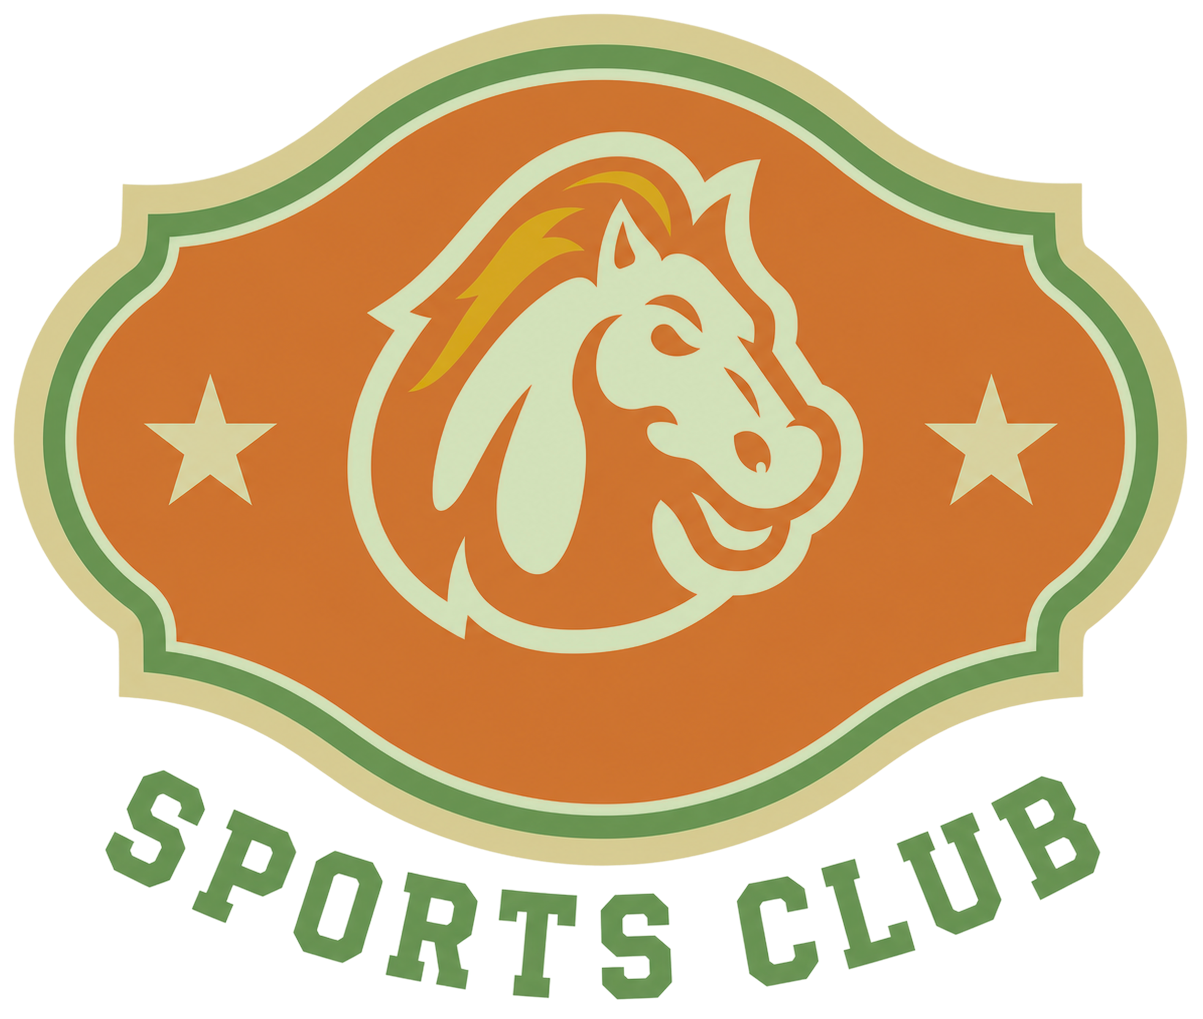
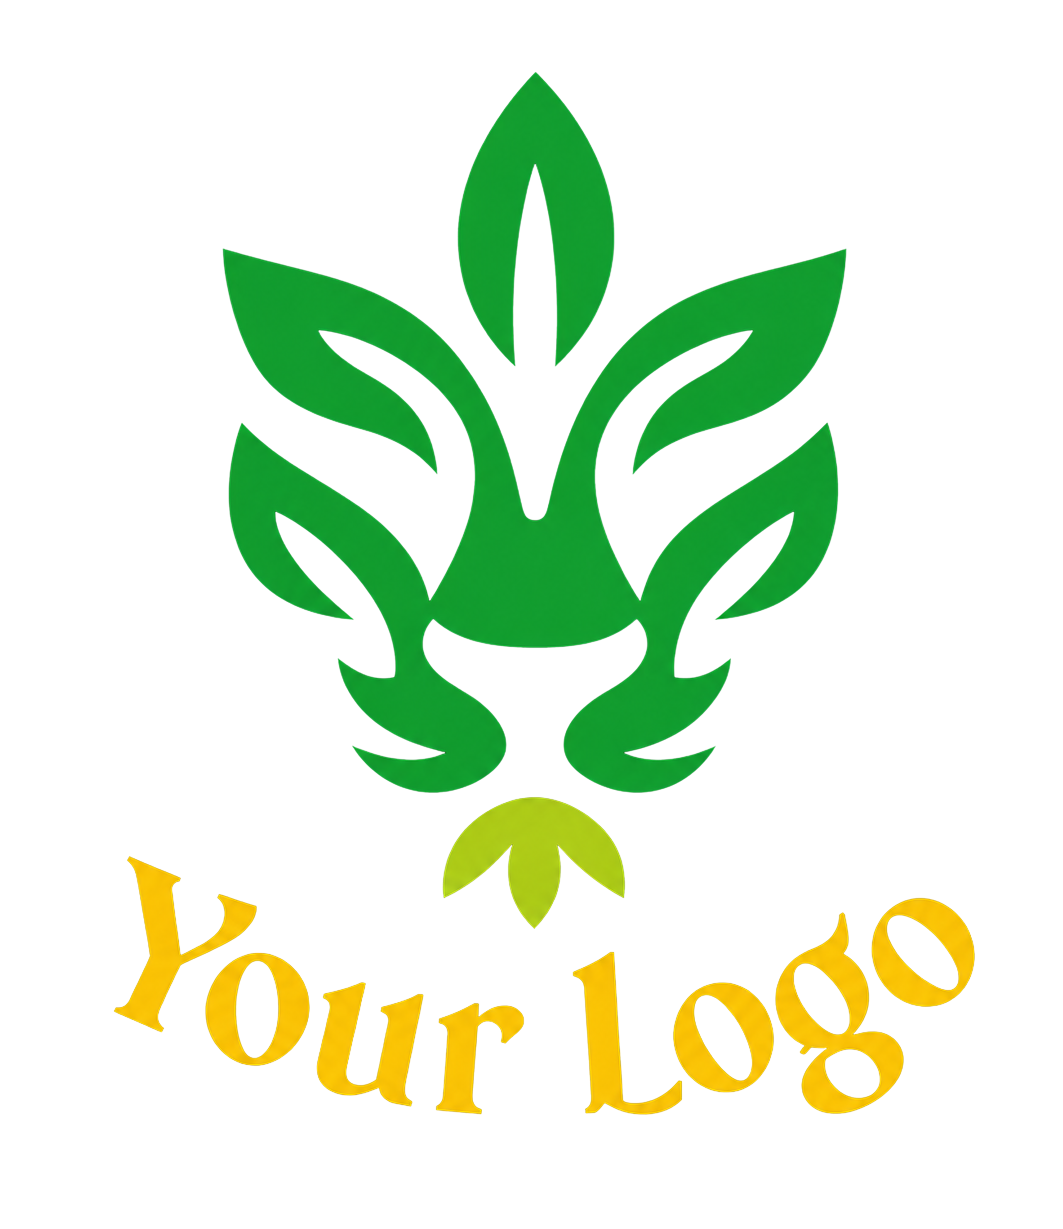
emb-landing: new before/after images, taller hero gradient, designer tile/color unification
- Replace before/after slider images with transparent-bg versions, fix aspect ratio
- Widen slider intro animation travel to ~48px each direction
- Increase hero gradient overlay height
- Unify product tiles/coloring/order across designer modal and select drawer
- Sync drawer preview colour to canvas via appearanceId; embroidery default print technique; model-picture rectangle

diff --git a/app/emb-landing/page.tsx b/app/emb-landing/page.tsx
@@ -2,70 +2,9 @@ import BeforeAfterCompare from "@/components/before-after-compare"
 import EmbLandingHeader from "@/components/emb-landing-header"
 import GradientButton from "@/components/gradient-button"
 import ProductsSection from "@/components/products-section"
-import { PRODUCTS } from "@/lib/products-data"
-
-// Curated order of embroidery products: baseball cap 2nd, half-zip 3rd.
-const PRODUCT_ORDER = [
-  "2116", "15", "4180", "1047", "3980", "4133", "812", "943", "2940", "916",
-  "2973", "1040", "20", "813", "4181", "917", "814", "1505", "4182", "4562",
-  "3001", "4312",
-]
-
-// Force a specific colourway for these tiles' default image (id -> appearanceId).
-const COLOR_OVERRIDE: Record<string, string> = {
-  "2116": "1224", // polo — latte
-  "1047": "649", // hoodie — steel green
-  "4133": "1409", // tote — heritage brown
-}
-
-// Prefer a natural/earthy colourway for each tile's default image.
-const NATURAL =
-  /(nature|natural|ecru|cream|vanilla|oat|sand|beige|khaki|olive|stone|taupe|almond|mocha|latte|heather|sage|tan|camel|linen|wheat|clay|off.?white|bone|white)/i
-
-function seed(s: string) {
-  let h = 2166136261
-  for (let i = 0; i < s.length; i++) {
-    h ^= s.charCodeAt(i)
-    h = Math.imul(h, 16777619)
-  }
-  return h >>> 0
-}
-
-function shuffle<T>(arr: T[], s: number): T[] {
-  const a = [...arr]
-  let x = s >>> 0
-  for (let i = a.length - 1; i > 0; i--) {
-    x = (Math.imul(x, 1664525) + 1013904223) >>> 0
-    const j = x % (i + 1)
-    ;[a[i], a[j]] = [a[j], a[i]]
-  }
-  return a
-}
+import { embroideryTiles } from "@/lib/tiles"
 
 export default function EmbLandingPage() {
-  const byId = new Map(PRODUCTS.map(p => [p.id, p]))
-  const embroideryTiles = PRODUCT_ORDER.map(id => byId.get(id))
-    .filter((p): p is NonNullable<typeof p> => Boolean(p))
-    .map(p => {
-      const override = COLOR_OVERRIDE[p.id]
-        ? p.appearances.find(a => a.id === COLOR_OVERRIDE[p.id])
-        : undefined
-      const natural = p.appearances.find(a => NATURAL.test(a.name)) ?? p.appearances[0]
-      const chosen = override ?? natural
-      return {
-        id: p.id,
-        image: chosen?.image || p.preview || "",
-        price: p.price.toFixed(2).replace(".", ",") + " €",
-        priceValue: p.price,
-        brand: p.details.brand || "",
-        name: p.name,
-        colors: shuffle(
-          p.appearances.map(a => a.color),
-          seed(p.id)
-        ),
-      }
-    })
-
   return (
     <main className="min-h-screen overflow-x-clip bg-white">
       <EmbLandingHeader />
@@ -91,7 +30,7 @@ export default function EmbLandingPage() {
             className="hero-float-c absolute top-[16%] left-[10%] w-76 rotate-[6deg] blur-[2px]"
           />
         </div>
-        <div className="pointer-events-none absolute inset-x-0 bottom-0 z-0 h-2/3 bg-gradient-to-t from-gray-800/45 to-gray-800/0" />
+        <div className="pointer-events-none absolute inset-x-0 bottom-0 z-0 h-6/6 bg-gradient-to-t from-gray-800/45 to-gray-800/0" />
         <div className="relative z-10 flex flex-col items-center gap-6 px-8 text-center">
           <BeforeAfterCompare />
           <h1 className="font-display text-3xl font-[900] tracking-tight text-white sm:text-4xl">

diff --git a/lib/tiles.ts b/lib/tiles.ts
@@ -1,22 +1,76 @@
 import type { ProductTileData } from "@/components/product-tile"
 import { PRODUCTS, type StaticProduct } from "@/lib/products-data"
 
-// Prefer a natural/earthy colourway for a product's default tile image.
+// Curated order of products (baseball cap 2nd, half-zip 3rd, …). Shared by the
+// landing carousel, the multi-select drawer, and the designer's products modal.
+const PRODUCT_ORDER = [
+  "2116", "15", "4180", "1047", "3980", "4133", "812", "943", "2940", "916",
+  "2973", "1040", "20", "813", "4181", "917", "814", "1505", "4182", "4562",
+  "3001", "4312",
+]
+
+// Force a specific colourway for these tiles' default image (id -> appearanceId).
+const COLOR_OVERRIDE: Record<string, string> = {
+  "2116": "1224", // polo — latte
+  "1047": "649", // hoodie — steel green
+  "4133": "1409", // tote — heritage brown
+}
+
+// Otherwise prefer a natural/earthy colourway for the default image.
 const NATURAL =
   /(nature|natural|ecru|cream|vanilla|oat|sand|beige|khaki|olive|stone|taupe|almond|mocha|latte|heather|sage|tan|camel|linen|wheat|clay|off.?white|bone|white)/i
 
+function seed(s: string) {
+  let h = 2166136261
+  for (let i = 0; i < s.length; i++) {
+    h ^= s.charCodeAt(i)
+    h = Math.imul(h, 16777619)
+  }
+  return h >>> 0
+}
+
+function shuffle<T>(arr: T[], s: number): T[] {
+  const a = [...arr]
+  let x = s >>> 0
+  for (let i = a.length - 1; i > 0; i--) {
+    x = (Math.imul(x, 1664525) + 1013904223) >>> 0
+    const j = x % (i + 1)
+    ;[a[i], a[j]] = [a[j], a[i]]
+  }
+  return a
+}
+
 export function productToTile(p: StaticProduct): ProductTileData {
+  const override = COLOR_OVERRIDE[p.id]
+    ? p.appearances.find(a => a.id === COLOR_OVERRIDE[p.id])
+    : undefined
   const natural = p.appearances.find(a => NATURAL.test(a.name)) ?? p.appearances[0]
+  const chosen = override ?? natural
   return {
     id: p.id,
-    image: natural?.image || p.preview || "",
+    image: chosen?.image || p.preview || "",
+    appearanceId: chosen?.id ?? "",
     price: p.price.toFixed(2).replace(".", ",") + " €",
     priceValue: p.price,
     brand: p.details.brand || "",
     name: p.name,
-    colors: p.appearances.map(a => a.color),
+    colors: shuffle(
+      p.appearances.map(a => a.color),
+      seed(p.id)
+    ),
   }
 }
 
-export const allTiles: ProductTileData[] = PRODUCTS.map(productToTile)
-export const embroideryTiles: ProductTileData[] = PRODUCTS.filter(p => p.embroidery).map(productToTile)
+const byId = new Map(PRODUCTS.map(p => [p.id, p]))
+
+// Embroidery products, in the curated order.
+export const embroideryTiles: ProductTileData[] = PRODUCT_ORDER.map(id => byId.get(id))
+  .filter((p): p is StaticProduct => Boolean(p))
+  .map(productToTile)
+
+// All products — curated ones first (same order + coloring), then the rest.
+const orderedAll: StaticProduct[] = [
+  ...PRODUCT_ORDER.map(id => byId.get(id)).filter((p): p is StaticProduct => Boolean(p)),
+  ...PRODUCTS.filter(p => !PRODUCT_ORDER.includes(p.id)),
+]
+export const allTiles: ProductTileData[] = orderedAll.map(productToTile)

diff --git a/components/designer.tsx b/components/designer.tsx
@@ -142,7 +142,7 @@ export default function Designer() {
   const graphicElementRefs = useRef<Record<string, HTMLElement>>({})
 
   // Print technique (only relevant for embroidery-suitable products).
-  const [printTechnique, setPrintTechnique] = useState<"standard" | "embroidery">("standard")
+  const [printTechnique, setPrintTechnique] = useState<"standard" | "embroidery">("embroidery")
   const [printTechniqueOpen, setPrintTechniqueOpen] = useState(false)
   const [previewLoading, setPreviewLoading] = useState(false)
   // Flattened design (text + graphics combined) for the print-technique close-up,
@@ -363,13 +363,14 @@ export default function Designer() {
     return () => document.removeEventListener("click", onDocClick)
   }, [])
 
-  // Reset texts and graphics when switching products.
+  // Reset texts and graphics when switching products. The print technique is
+  // intentionally NOT reset — embroidery is the default, and once the user
+  // switches to standard print that choice persists across products.
   useEffect(() => {
     setTextElements([])
     setEditingTextId(null)
     setGraphicElements([])
     setSelectedGraphicId(null)
-    setPrintTechnique("standard")
     setPrintTechniqueOpen(false)
   }, [productData])
 
@@ -624,12 +625,13 @@ export default function Designer() {
 
   useEffect(() => {
     if (!productData) return
-    const idx = productData.appearances.findIndex(
-      a => a.id === productData.defaultAppearanceId
-    )
+    // Prefer the colour previewed in the products drawer; fall back to default.
+    const wanted = selectedProduct?.appearanceId
+    let idx = wanted ? productData.appearances.findIndex(a => a.id === wanted) : -1
+    if (idx < 0) idx = productData.appearances.findIndex(a => a.id === productData.defaultAppearanceId)
     setActiveColorIndex(idx >= 0 ? idx : 0)
     setActiveViewId(productData.defaultViewId)
-  }, [productData])
+  }, [productData, selectedProduct?.appearanceId])
 
   const appearances = productData?.appearances ?? []
   const sizes = useMemo(
@@ -1609,6 +1611,18 @@ export default function Designer() {
                 })}
               </div>
             )}
+            {/* Model picture of the current product — portrait, above the print
+                selection, same border radius as the print-selection button. */}
+            {productData?.modelImageFront && (
+              <div className="absolute right-6 bottom-[72px] z-20 aspect-[3/4] w-24 overflow-hidden rounded-[8px] bg-white shadow-xs">
+                <img
+                  src={productData.modelImageFront}
+                  alt={`${productData.name} on model`}
+                  className="h-full w-full object-cover"
+                />
+              </div>
+            )}
+
             {/* Print technique dropdown — only for embroidery-suitable products. */}
             {productData?.embroidery && (
               <button

diff --git a/components/before-after-compare.tsx b/components/before-after-compare.tsx
@@ -13,7 +13,7 @@ export default function BeforeAfterCompare() {
     const el = containerRef.current
     if (!el) return
     const width = el.getBoundingClientRect().width || 1
-    const d = (24 / width) * 100 // ~24px expressed as a percentage
+    const d = (48 / width) * 100 // ~48px expressed as a percentage
     const ease = (t: number) => (t < 0.5 ? 2 * t * t : 1 - Math.pow(-2 * t + 2, 2) / 2)
     // [elapsedMs, posValue]
     const kf: [number, number][] = [
@@ -78,7 +78,7 @@ export default function BeforeAfterCompare() {
       aria-valuemin={0}
       aria-valuemax={100}
       aria-valuenow={Math.round(pos)}
-      className="relative aspect-[1203/1019] h-[340px] max-h-full max-w-full cursor-ew-resize touch-none overflow-hidden rounded-2xl select-none"
+      className="relative aspect-[1063/1229] h-[340px] max-h-full max-w-full cursor-ew-resize touch-none overflow-hidden rounded-2xl select-none"
     >
       {/* Embroidery — clipped to the right of the handle only, so it never
           shows through any transparent areas of the graphic on the left. */}

diff --git a/components/products-drawer.tsx b/components/products-drawer.tsx
@@ -5,7 +5,7 @@ import { Drawer } from "vaul"
 import ProductTile from "@/components/product-tile"
 import { allTiles } from "@/lib/tiles"
 
-export type SelectedProduct = { id: string; src: string; name: string }
+export type SelectedProduct = { id: string; src: string; name: string; appearanceId: string }
 
 type ProductsDrawerProps = {
   open: boolean
@@ -38,7 +38,7 @@ export default function ProductsDrawer({ open, onOpenChange, onSelect }: Product
                   key={t.id}
                   type="button"
                   onClick={() => {
-                    onSelect({ id: t.id, src: t.image, name: t.name })
+                    onSelect({ id: t.id, src: t.image, name: t.name, appearanceId: t.appearanceId })
                     onOpenChange(false)
                   }}
                   className="cursor-pointer text-left"

diff --git a/components/product-tile.tsx b/components/product-tile.tsx
@@ -5,6 +5,8 @@ import { cn } from "@/lib/utils"
 export type ProductTileData = {
   id: string
   image: string
+  /** appearance (colour) id shown as the tile preview */
+  appearanceId: string
   price: string
   priceValue: number
   brand: string